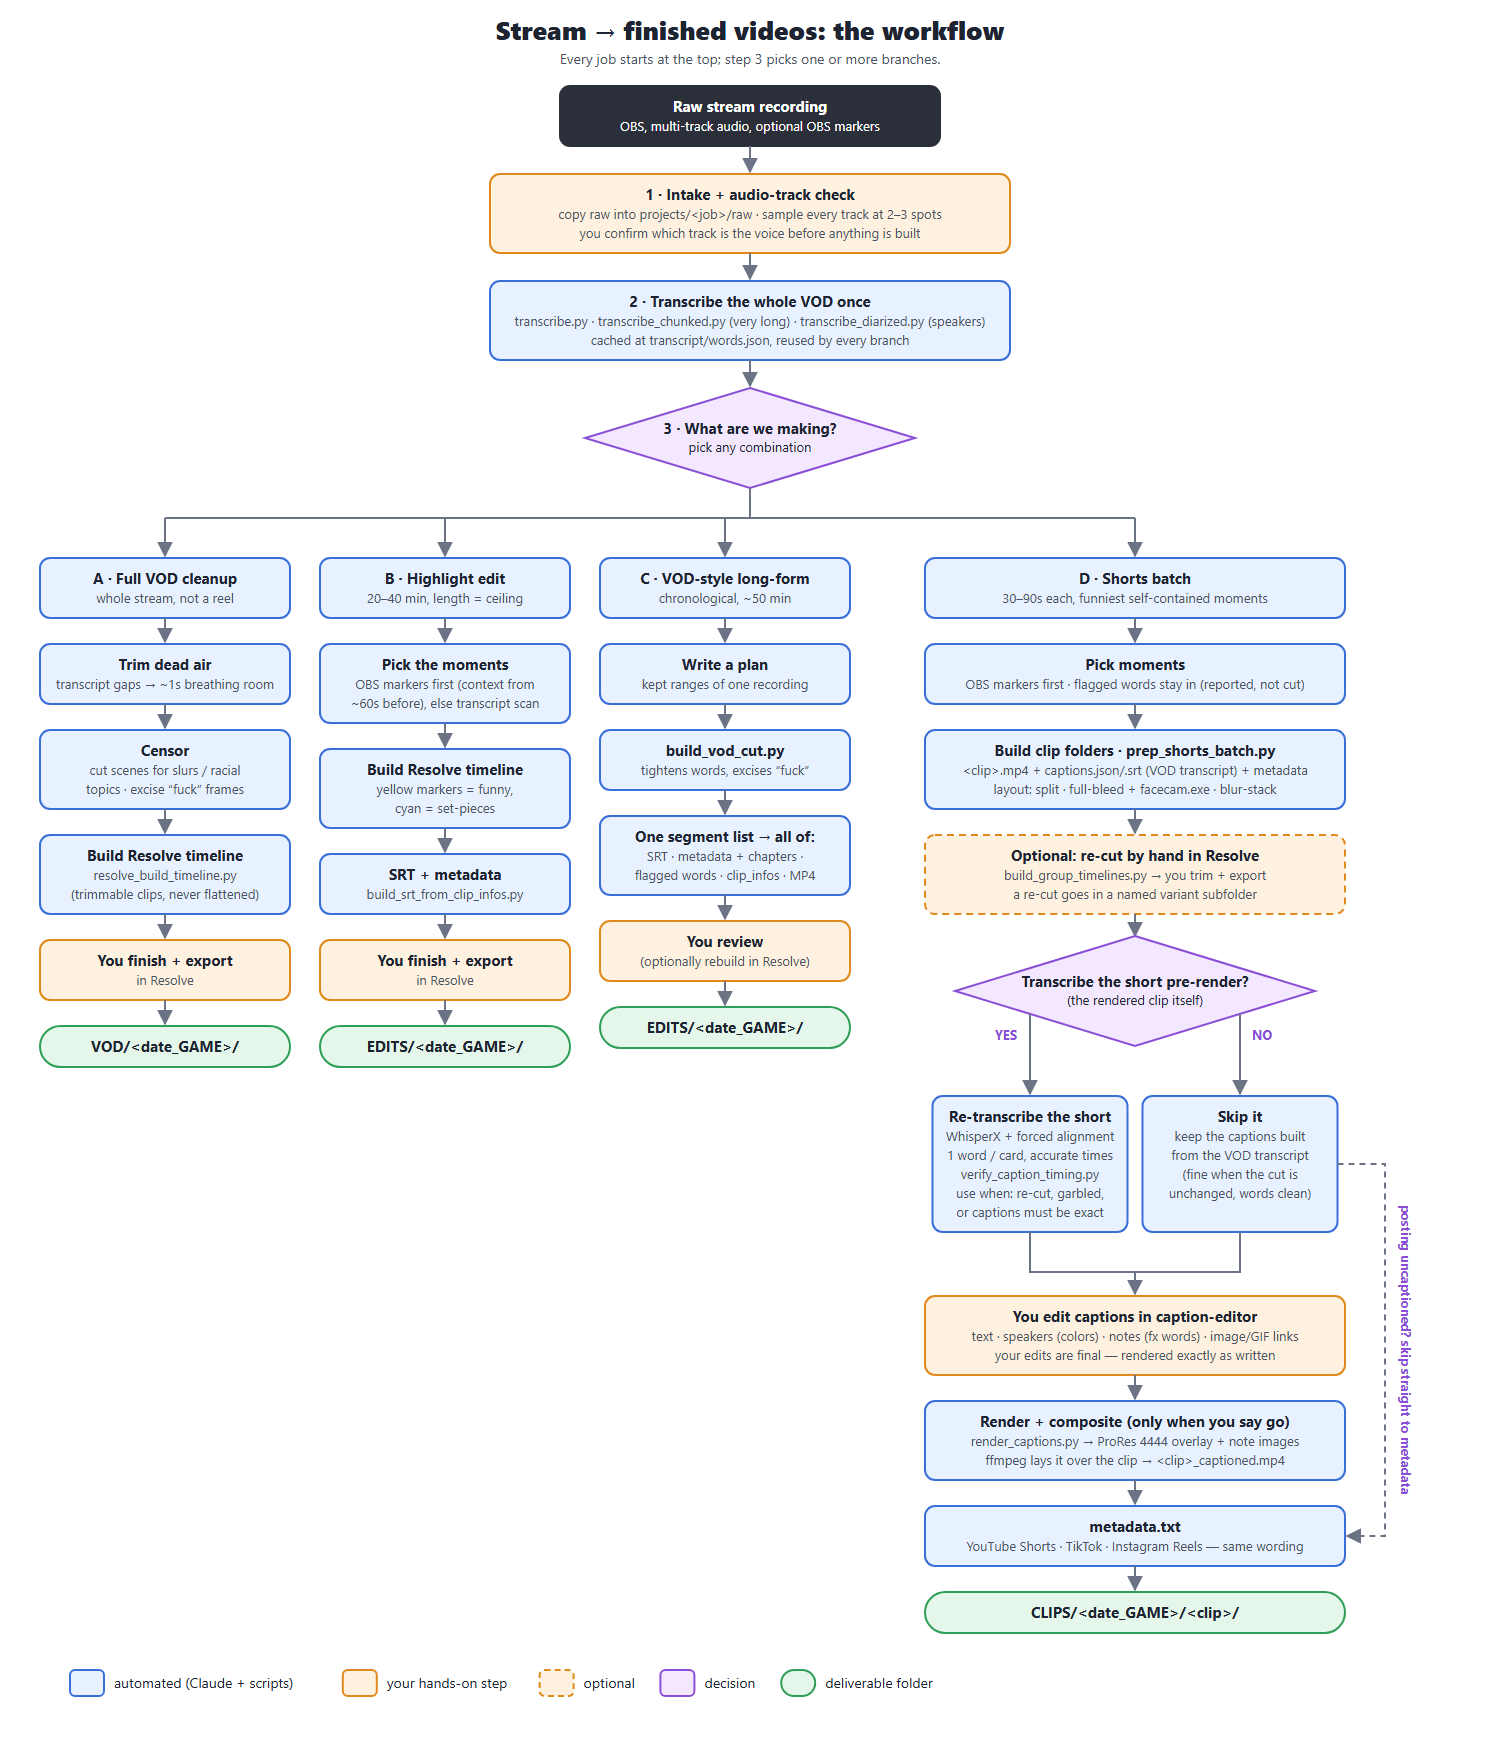
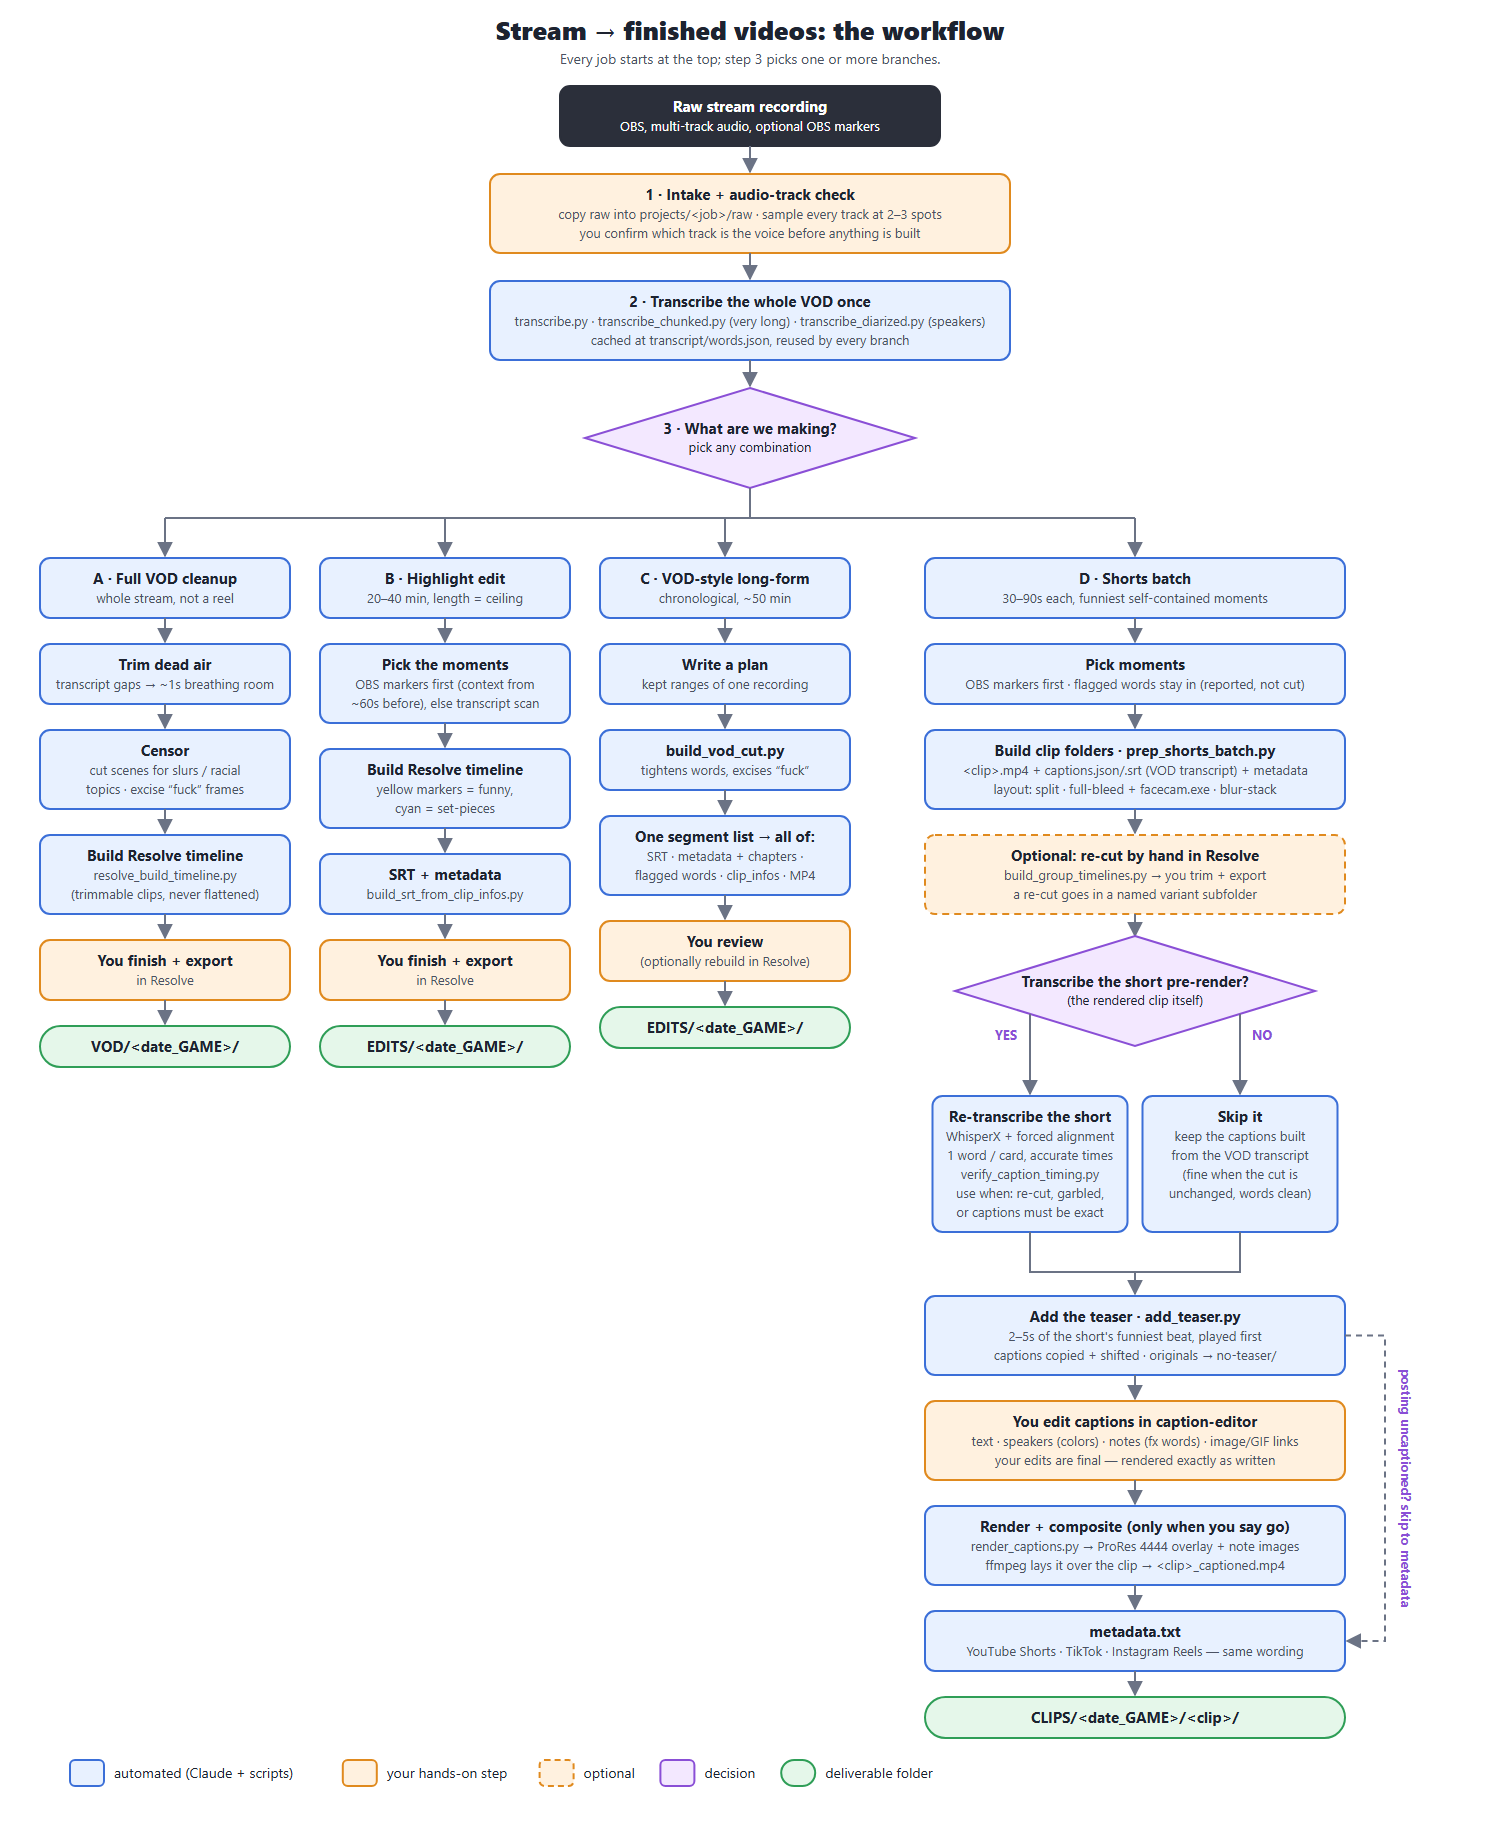
Add a teaser step for shorts: the funniest beat plays first
add_teaser.py cuts a window from a finished short (snapped to word
edges), joins it in front with short audio fades, copies that window's
caption cards to the front and shifts the rest, rewrites the SRT, and
moves the pre-teaser files to no-teaser/. --suggest lists the loudest
word-aligned windows as candidates.

The skill, README and workflow chart now place the teaser after the
cut and transcription and before caption editing.

diff --git a/scripts/add_teaser.py b/scripts/add_teaser.py
@@ -1,0 +1,179 @@
+"""Put a 2-5 second teaser (the short's funniest beat) in front of a finished short, so
+viewers get hooked before the setup.
+
+Usage:
+    python add_teaser.py <clip_dir> --suggest
+    python add_teaser.py <clip_dir> <start_s> <end_s> [--force]
+
+<clip_dir> is a short's folder (<name>/<name>.mp4 + captions.json, optional captions.srt),
+or a variant subfolder of one. --suggest prints the loudest 2-5 s word-aligned windows
+(laughs and yelling are usually the payoff) to help pick; the moment itself is a judgment
+call made from the transcript.
+
+With a window, the teaser is cut from the short itself, snapped outward to word edges
+(never starting or ending mid-word), and joined in front of the full clip with a 30 ms
+audio fade on each edge so the joins don't click. captions.json gets the teaser
+window's cards copied to the front (notes and all) and every original card shifted back
+by the teaser length; captions.srt is rewritten from it, one cue per card. The pre-teaser
+files move to <clip_dir>/no-teaser/ (a variant subfolder, per the deliverables rule);
+refuses to run twice on the same folder unless --force.
+
+Best run once the cut is final and before captions are hand-edited, so the teaser's
+captions get edited with the rest; it works on edited captions too (it only shifts them).
+"""
+import json
+import os
+import shutil
+import subprocess
+import sys
+
+import numpy as np
+
+FADE = 0.03
+TAIL = 0.15     # air left after the teaser's last word
+MIN_LEN, MAX_LEN = 2.0, 5.0
+
+
+def clip_paths(clip_dir):
+    name = os.path.basename(os.path.normpath(clip_dir))
+    mp4 = os.path.join(clip_dir, name + ".mp4")
+    if not os.path.exists(mp4):
+        cands = [f for f in os.listdir(clip_dir) if f.endswith(".mp4") and not f.endswith("_captioned.mp4")]
+        if len(cands) != 1:
+            raise SystemExit(f"can't tell which mp4 is the short in {clip_dir}: {cands}")
+        mp4 = os.path.join(clip_dir, cands[0])
+    return mp4, os.path.join(clip_dir, "captions.json"), os.path.join(clip_dir, "captions.srt")
+
+
+def duration(path):
+    out = subprocess.run(["ffprobe", "-v", "error", "-show_entries", "format=duration", "-of", "csv=p=0", path],
+                         capture_output=True, text=True, check=True).stdout
+    return float(out)
+
+
+def audio_rms(path, hop=0.05):
+    raw = subprocess.run(["ffmpeg", "-v", "error", "-i", path, "-vn", "-ac", "1", "-ar", "16000", "-f", "s16le", "-"],
+                         capture_output=True, check=True).stdout
+    x = np.frombuffer(raw, dtype=np.int16).astype(np.float32) / 32768
+    n = int(16000 * hop)
+    return np.sqrt(np.mean(x[: len(x) // n * n].reshape(-1, n) ** 2, axis=1)), hop
+
+
+def text(card):
+    return " ".join(card.get("lines", []))
+
+
+def suggest(clip_dir):
+    mp4, cards_path, _ = clip_paths(clip_dir)
+    cards = json.load(open(cards_path, encoding="utf-8"))
+    rms, hop = audio_rms(mp4)
+    starts = [c["start"] for c in cards]
+    found = []
+    for i in range(len(cards)):
+        for j in range(i, len(cards)):
+            length = cards[j]["end"] - starts[i]
+            if length > MAX_LEN:
+                break
+            if length < MIN_LEN:
+                continue
+            seg = rms[int(starts[i] / hop):int(cards[j]["end"] / hop) + 1]
+            found.append((float(np.mean(seg)) + 0.5 * float(np.percentile(seg, 90)), starts[i], cards[j]["end"],
+                          " ".join(text(c) for c in cards[i:j + 1])))
+    found.sort(reverse=True)
+    shown = []
+    for score, a, b, words in found:
+        if any(not (b <= sa or a >= sb) for sa, sb in shown):
+            continue  # one suggestion per stretch of the clip
+        shown.append((a, b))
+        print(f"  {a:6.2f}-{b:6.2f}  ({b - a:.1f}s, loudness {score:.3f})  {words}")
+        if len(shown) == 5:
+            break
+
+
+def snap(cards, start, end):
+    """Widen [start, end] outward to card (word) edges without running into the next word."""
+    first = min(cards, key=lambda c: abs(c["start"] - start))  # nearest word, so a rounded time can't grab its neighbor
+    a = first["start"]
+    inside = [c for c in cards if c["start"] < end]
+    last = max(inside, key=lambda c: c["start"])
+    later = [c for c in cards if c["start"] > last["start"]]
+    b = last["end"] + TAIL
+    if later:
+        b = min(b, later[0]["start"] + 0.10)  # cards lead their word by ~0.12 s, so this stays before it
+    return max(0.0, a), max(b, last["end"])
+
+
+def tc(x):
+    ms = round(x * 1000)
+    h, ms = divmod(ms, 3600000)
+    m, ms = divmod(ms, 60000)
+    s, ms = divmod(ms, 1000)
+    return f"{h:02d}:{m:02d}:{s:02d},{ms:03d}"
+
+
+def add(clip_dir, start, end, force=False):
+    mp4, cards_path, srt_path = clip_paths(clip_dir)
+    keep = os.path.join(clip_dir, "no-teaser")
+    if os.path.isdir(keep) and not force:
+        raise SystemExit(f"{keep} already exists - this short already has a teaser (use --force to add another)")
+    cards = json.load(open(cards_path, encoding="utf-8"))
+    dur = duration(mp4)
+    a, b = snap(cards, start, end)
+    b = min(b, dur)
+    tlen = b - a
+    if not MIN_LEN - 0.5 <= tlen <= MAX_LEN + 0.5:
+        print(f"  note: teaser is {tlen:.2f}s (aim for {MIN_LEN:.0f}-{MAX_LEN:.0f}s)")
+
+    os.makedirs(keep, exist_ok=True)
+    src = os.path.join(keep, os.path.basename(mp4))
+    shutil.move(mp4, src)
+    shutil.move(cards_path, os.path.join(keep, "captions.json"))
+    if os.path.exists(srt_path):
+        shutil.move(srt_path, os.path.join(keep, "captions.srt"))
+
+    # the teaser and the full clip are read as two separate inputs: splitting one input would make
+    # ffmpeg buffer every frame up to the teaser's position in memory
+    graph = (f"[0:v]trim={a:.3f}:{b:.3f},setpts=PTS-STARTPTS[tv];"
+             f"[0:a]atrim={a:.3f}:{b:.3f},asetpts=PTS-STARTPTS,afade=t=in:d={FADE},"
+             f"afade=t=out:st={tlen - FADE:.3f}:d={FADE}[ta];"
+             f"[1:a]afade=t=in:d={FADE}[ma];"
+             f"[tv][ta][1:v][ma]concat=n=2:v=1:a=1[v][a]")
+    subprocess.run(["ffmpeg", "-y", "-v", "warning", "-i", src, "-i", src, "-filter_complex", graph,
+                    "-map", "[v]", "-map", "[a]",
+                    "-c:v", "h264_nvenc", "-preset", "p6", "-cq", "18", "-pix_fmt", "yuv420p", "-r", "30",
+                    "-c:a", "aac", "-b:a", "192k", "-movflags", "+faststart", mp4], check=True)
+
+    teaser = []
+    for c in cards:
+        if a - 1e-6 <= c["start"] < b:
+            t = dict(c)
+            t["start"] = round(c["start"] - a, 3)
+            t["end"] = round(min(c["end"], b) - a, 3)
+            if t["end"] > t["start"]:
+                teaser.append(t)
+    shifted = [dict(c, start=round(c["start"] + tlen, 3), end=round(c["end"] + tlen, 3)) for c in cards]
+    out = teaser + shifted
+    json.dump(out, open(cards_path, "w", encoding="utf-8"), indent=2, ensure_ascii=False)
+    with open(srt_path, "w", encoding="utf-8") as f:
+        for n, c in enumerate(out, 1):
+            f.write(f"{n}\n{tc(c['start'])} --> {tc(c['end'])}\n" + "\n".join(c.get("lines", [])) + "\n\n")
+
+    new_dur = duration(mp4)
+    frames = subprocess.run(["ffprobe", "-v", "error", "-select_streams", "v:0", "-count_packets",
+                             "-show_entries", "stream=nb_read_packets", "-of", "csv=p=0", mp4],
+                            capture_output=True, text=True).stdout.strip()
+    print(f"  teaser {a:.2f}-{b:.2f}s ({tlen:.2f}s): {' '.join(text(c) for c in teaser)}")
+    print(f"  {os.path.basename(mp4)}: {dur:.2f}s -> {new_dur:.2f}s ({frames} frames); "
+          f"{len(teaser)} teaser cards + {len(shifted)} shifted; originals in no-teaser/")
+    if abs(new_dur - (dur + tlen)) > 0.15:
+        raise SystemExit(f"duration check failed: expected {dur + tlen:.2f}s")
+
+
+if __name__ == "__main__":
+    args = [x for x in sys.argv[1:] if not x.startswith("--")]
+    if "--suggest" in sys.argv:
+        suggest(args[0])
+    elif len(args) == 3:
+        add(args[0], float(args[1]), float(args[2]), force="--force" in sys.argv)
+    else:
+        raise SystemExit(__doc__)

diff --git a/docs/make_workflow.py b/docs/make_workflow.py
@@ -1,11 +1,11 @@
 """Generate docs/workflow.svg (flowchart of the pipeline with its options).
 
-PNG: chrome --headless=new --window-size=1500,1740 --screenshot=docs/workflow.png docs/workflow.svg
+PNG: chrome --headless=new --window-size=1500,1830 --screenshot=docs/workflow.png docs/workflow.svg
 """
 import os
 from html import escape
 
-W, H = 1500, 1740
+W, H = 1500, 1830
 FONT = "Segoe UI, Helvetica, Arial, sans-serif"
 C = {
     "auto": ("#e8f1ff", "#3b6fd8"),     # automated step (Claude + scripts)
@@ -155,7 +155,13 @@ skip_mid = (by + ry) / 2
 my = ly + 40
 arrow([(LX, ly), (LX, my), (X, my), (X, my + 22)])
 out.append(f'<path d="M {RX},{ry} L {RX},{my} L {X},{my}" fill="none" stroke="#6b7385" stroke-width="2"/>')
-yy = box(X, my + 24, DW, ["You edit captions in caption-editor",
+teaser_top = my + 24
+yy = box(X, teaser_top, DW, ["Add the teaser · add_teaser.py",
+                             "2–5s of the short's funniest beat, played first",
+                             "captions copied + shifted · originals → no-teaser/"])
+teaser_mid = (teaser_top + yy) / 2
+arrow([(X, yy), (X, yy + 24)]); yy += 26
+yy = box(X, yy, DW, ["You edit captions in caption-editor",
                           "text · speakers (colors) · notes (fx words) · image/GIF links",
                           "your edits are final — rendered exactly as written"], "manual")
 arrow([(X, yy), (X, yy + 24)]); yy += 26
@@ -165,11 +171,11 @@ yy = box(X, yy, DW, ["Render + composite  (only when you say go)",
 arrow([(X, yy), (X, yy + 24)]); yy += 26
 meta_top = yy
 yy = box(X, yy, DW, ["metadata.txt", "YouTube Shorts · TikTok · Instagram Reels — same wording"])
-# posting with no captions at all: straight from "Skip it" to metadata
+# posting with no captions at all: after the teaser, straight to metadata
 GX = X + DW / 2 + 40
 meta_mid = (meta_top + yy) / 2
-arrow([(RX + BW / 2, skip_mid), (GX, skip_mid), (GX, meta_mid), (X + DW / 2 + 2, meta_mid)], dashed=True)
-out.append(f'<text transform="translate({GX + 16},{(skip_mid + meta_mid) / 2}) rotate(90)" text-anchor="middle" font-size="13" font-weight="700" fill="#8a4fd6">posting uncaptioned? skip straight to metadata</text>')
+arrow([(X + DW / 2, teaser_mid), (GX, teaser_mid), (GX, meta_mid), (X + DW / 2 + 2, meta_mid)], dashed=True)
+out.append(f'<text transform="translate({GX + 16},{(teaser_mid + meta_mid) / 2}) rotate(90)" text-anchor="middle" font-size="13" font-weight="700" fill="#8a4fd6">posting uncaptioned? skip to metadata</text>')
 arrow([(X, yy), (X, yy + 24)]); yy += 26
 yend = box(X, yy, DW, ["CLIPS/<date_GAME>/<clip>/"], "out")
 

diff --git a/README.md b/README.md
@@ -106,12 +106,20 @@ moment.
    never as a `_v2` file next to the original.
 4. **Decide: transcribe the short pre-render, or not?** See the next
    section.
-5. **Edit the captions** in the
+5. **Add the teaser.** Every short opens with 2–5 seconds of its funniest
+   beat (the punchline or the big laugh), then plays from its normal start,
+   so viewers get hooked.
+   - `add_teaser.py <clip> --suggest` lists the loudest word-aligned
+     windows as candidates.
+   - `add_teaser.py <clip> <start> <end>` puts that window in front, snapped
+     to word edges. It copies that window's captions to the front and shifts
+     the rest. The pre-teaser files move to `no-teaser/`.
+6. **Edit the captions** in the
    [caption editor](https://github.com/benjaminwellssss/caption-editor#how-tos).
    You can fix text, set speakers (each gets a fill color), write plain-English
    notes that drive effects, and paste image/GIF links. **Your edits are
    final:** they're rendered exactly as written.
-6. **Render + composite**, only when you say so. `render_captions.py` renders
+7. **Render + composite**, only when you say so. `render_captions.py` renders
    a transparent ProRes 4444 overlay:
    - Note words (zoom, vibrate, red, progressively…) become effects through
      `caption_fx.py`.
@@ -120,7 +128,7 @@ moment.
 
    ffmpeg then lays the overlay over the clip, giving
    `<clip>_captioned.mp4`.
-7. **Metadata.** `metadata.txt` has YouTube Shorts, TikTok and Instagram
+8. **Metadata.** `metadata.txt` has YouTube Shorts, TikTok and Instagram
    Reels sections. They use the same title, description and hashtags, not
    reworded per platform. The standard description (thanks for watching, an
    invite to the streams, handle links) is in the `stream-vod-edit` skill.
@@ -154,7 +162,7 @@ cheaper middle ground when the base transcript was already good.
   | Transcription | `transcribe.py`, `transcribe_chunked.py`, `transcribe_diarized.py` |
   | Long-form cuts | `build_vod_cut.py`, `build_scene_cut.py`, `resolve_build_timeline.py` |
   | SRT builders | `build_srt_from_cut.py`, `build_srt_from_clip_infos.py`, `build_srt_multi_source.py`, `build_srt_from_cards.py` |
-  | Shorts | `prep_shorts_batch.py`, `verify_shorts_batch.py`, `build_jumpcut_short.py`, `build_custom_crop_short.py`, `build_fullbleed_short.py`, `build_blurstack_batch.py`, `build_group_timelines.py`, `remap_words_jumpcut.py` |
+  | Shorts | `prep_shorts_batch.py`, `verify_shorts_batch.py`, `build_jumpcut_short.py`, `build_custom_crop_short.py`, `build_fullbleed_short.py`, `build_blurstack_batch.py`, `build_group_timelines.py`, `remap_words_jumpcut.py`, `add_teaser.py` |
   | Caption cards | `build_caption_cards.py`, `build_short_cards_from_segments.py`, `build_sentence_emphasis_cards.py`, `build_speaker_cards.py`, `build_speaker_colors.py`, `build_cards_from_ranges.py` |
   | Rendering | `render_captions.py`, `caption_fx.py`, `render_handle.py`, `render_facecam_frame.py`, `render_static_caption.py`, `render_disclaimer_card.py`, `build_shake_zoom_punch.py` |
   | Checks | `verify_caption_timing.py`, `verify_shorts_batch.py` |

diff --git a/.claude/skills/stream-vod-edit/SKILL.md b/.claude/skills/stream-vod-edit/SKILL.md
@@ -1367,6 +1367,32 @@ here — this section covers everything else.
   the [preview clip] at the front like you did") — once established for a
   given channel/style, keep doing it on subsequent edits without being
   asked again.
+- **Every short opens with a 2-5 second teaser (user, 2026-10-08).** The
+  short version of the cold open: the funniest beat of the short itself
+  (usually the punchline or the big laugh) plays first, then the short runs
+  from its normal start, so viewers are hooked and stay for the whole thing.
+  - **When:** once the cut is final (after any hand re-cut in Resolve is
+    exported) and *before* captions are hand-edited, so the teaser's
+    captions get edited with the rest. It also works on already-edited
+    captions (it only copies and shifts cards), but do it before the caption
+    render/composite either way - a composited `_captioned.mp4` would need
+    re-rendering.
+  - **Picking the moment** is a transcript judgment call, like picking the
+    clip: the payoff line, not the setup, 2-5 s, starting and ending on word
+    edges. `scripts/add_teaser.py <clip_dir> --suggest` lists the loudest
+    word-aligned windows as candidates (laughs/yelling usually mark the
+    payoff); pick from those or from reading the transcript, and say which
+    line was used when reporting back.
+  - **Building it:** `scripts/add_teaser.py <clip_dir> <start> <end>` cuts the
+    window from the short (snapped outward to word edges), joins it in front
+    with a 30 ms audio fade on each join, copies the window's caption cards to
+    the front, shifts every other card by the teaser length, and rewrites
+    `captions.srt`. The pre-teaser mp4/captions move to `<clip_dir>/no-teaser/`
+    (a variant subfolder); it refuses to run twice on one folder.
+  - Hand-built driver scripts that find cards by note text (e.g.
+    `render_vibes_villagers.py`) take the first match - after a teaser, a
+    copied card with the same note comes first, so check those before
+    re-running one.
 - **Real spoken introduction, spliced in after the cold open**: the user is
   starting to record an actual intro ("hey guys, welcome back...") at some
   point in the raw footage — distinct from the cold-open trick above, which
